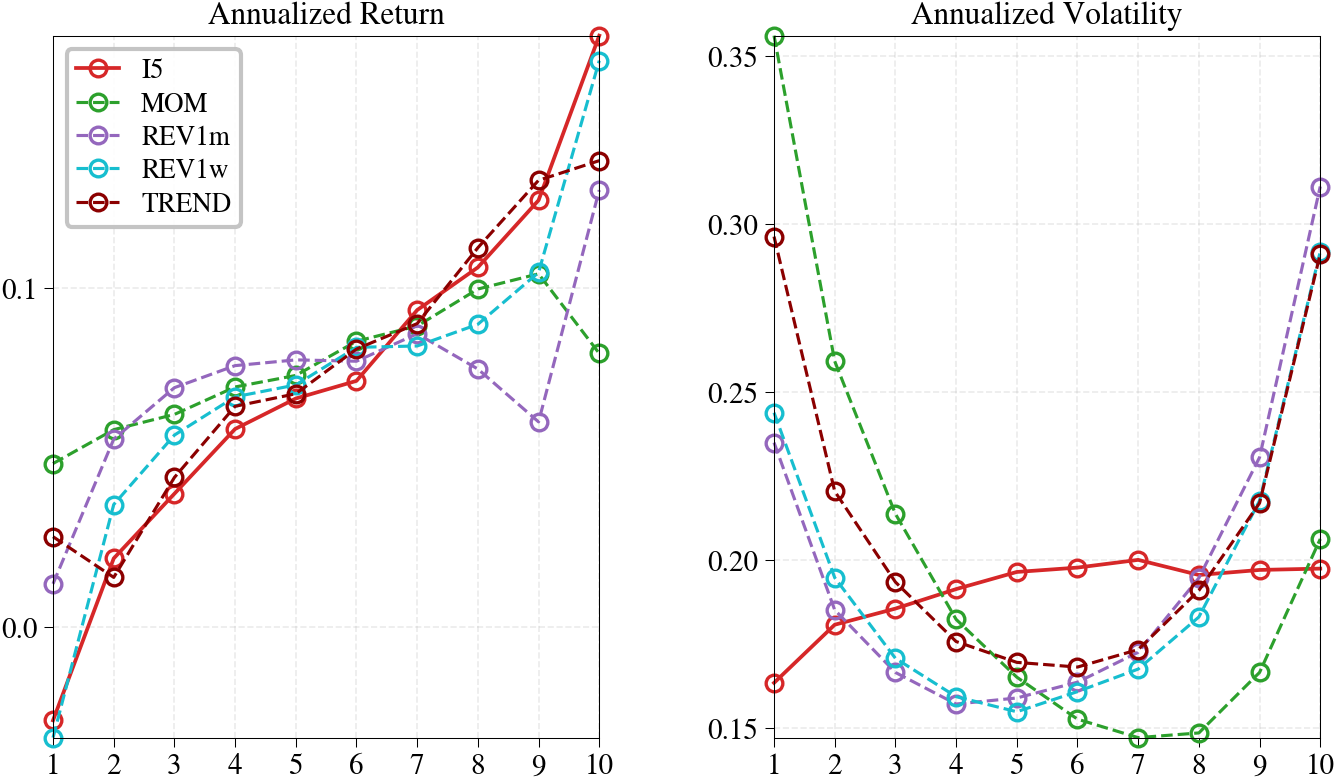
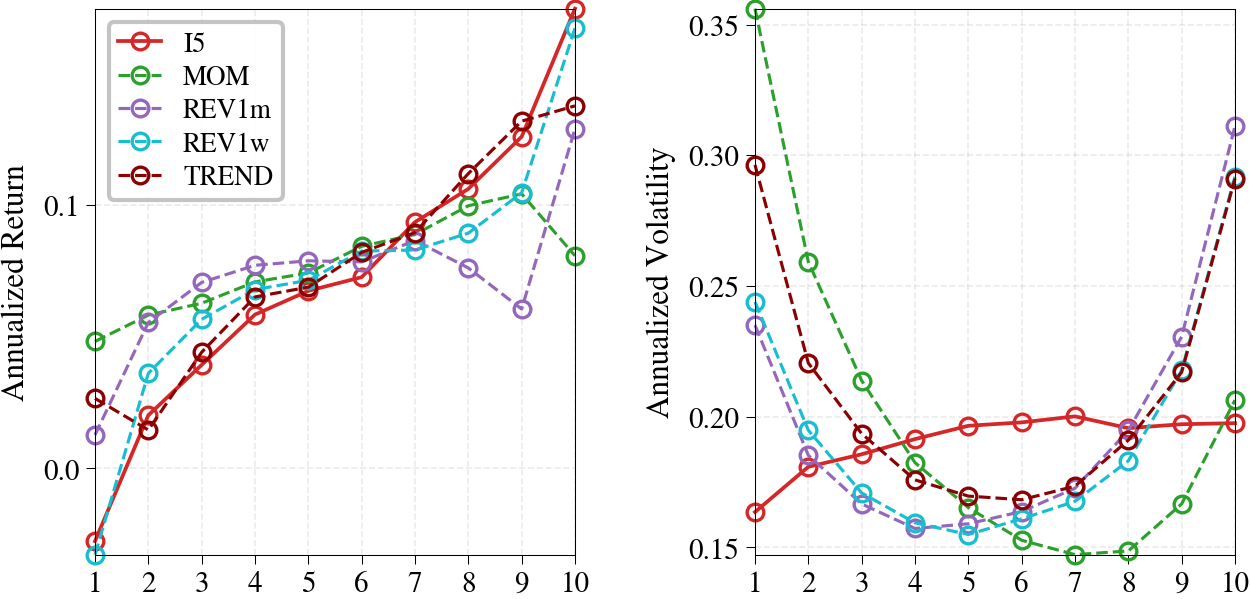
refactor: update figure layout and dimensions in decile scatter curves script for improved visualization; adjust axes properties and labels for clarity

diff --git a/outputs/analysis_results/03_decile_scatter_curves/03_decile_figure.py b/outputs/analysis_results/03_decile_scatter_curves/03_decile_figure.py
@@ -28,8 +28,16 @@ from config import MARKET_CN, MARKET_US
 
 HERE = Path(__file__).resolve().parent
 STEM = "decile_curves"
-# Narrower canvas than before: same figure height (y-axis unchanged), shorter x-axis.
-FIG_W, FIG_H = 4.8, 3.0
+# Plot box: y a bit longer than x, but not a square.
+PLOT_W = 1.60
+PLOT_H = 1.82
+LEFT_IN = 0.50
+GAP_IN = 0.60
+RIGHT_IN = 0.04
+BOTTOM_IN = 0.22
+TOP_IN = 0.04
+FIG_W = LEFT_IN + PLOT_W + GAP_IN + PLOT_W + RIGHT_IN
+FIG_H = BOTTOM_IN + PLOT_H + TOP_IN
 FIG_DPI = 300
 # Match 02 cumulative-return plot boxes (pt).
 SPINE_LW = 0.25
@@ -152,18 +160,31 @@ def plot_decile_curves(
     ret_y0, ret_y1 = _data_limits(ret_flat)
     vol_y0, vol_y1 = _data_limits(vol_flat)
 
-    fig, axes = plt.subplots(1, 2, figsize=(FIG_W, FIG_H), sharex=True)
-    fig.subplots_adjust(left=0.11, right=0.99, bottom=0.12, top=0.90, wspace=0.32)
+    fig_w, fig_h = FIG_W, FIG_H
+    fig = plt.figure(figsize=(fig_w, fig_h))
+    ax_left = fig.add_axes(
+        [LEFT_IN / fig_w, BOTTOM_IN / fig_h, PLOT_W / fig_w, PLOT_H / fig_h]
+    )
+    ax_right = fig.add_axes(
+        [
+            (LEFT_IN + PLOT_W + GAP_IN) / fig_w,
+            BOTTOM_IN / fig_h,
+            PLOT_W / fig_w,
+            PLOT_H / fig_h,
+        ]
+    )
+    ax_right.sharex(ax_left)
+    axes = (ax_left, ax_right)
     tick_size = 7.0
-    titles = ("Annualized Return", "Annualized Volatility")
+    ylabels = ("Annualized Return", "Annualized Volatility")
 
-    for ax, metric_idx, (y0, y1, step) in zip(
+    for ax, ylabel, (y0, y1, step) in zip(
         axes,
-        (0, 1),
+        ylabels,
         ((ret_y0, ret_y1, RET_STEP), (vol_y0, vol_y1, VOL_STEP)),
     ):
         _apply_ticks(ax, y0, y1, step, tick_size=tick_size)
-        ax.set_title(titles[metric_idx], fontproperties=plot_font(tick_size + 0.5), pad=3.0)
+        ax.set_ylabel(ylabel, fontproperties=plot_font(tick_size + 0.5), labelpad=3.0)
         ax.grid(True, alpha=0.25, linestyle="--", linewidth=0.4)
         for side in ("left", "right", "top", "bottom"):
             ax.spines[side].set_visible(True)
